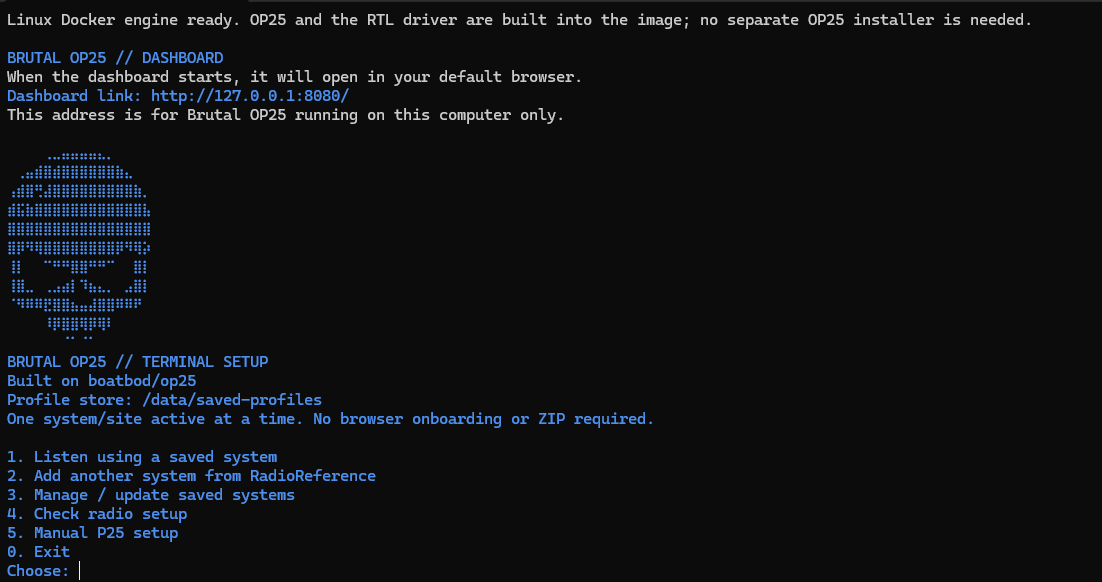
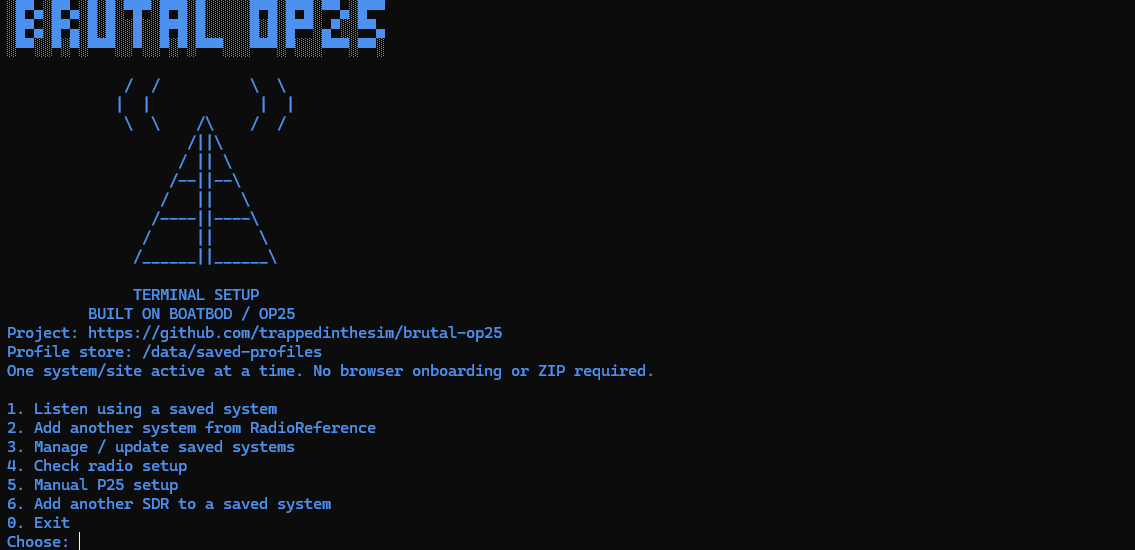
Show updated terminal launcher screenshot

Changed region(s): [[0.0, 0.0, 1.0, 1.0]]

diff --git a/README.md b/README.md
@@ -17,28 +17,11 @@ Live dashboard showing the receiver, call history, and signal plots:
 
 ![Brutal OP25 live dashboard with receiver telemetry, call history, and signal plots](docs/screenshots/dashboard-live.png)
 
-The terminal banner combines the block-letter name with the radio tower (shown in
-the dashboard's blue on a color terminal). Narrow or non-UTF-8 terminals use the compact name:
+Terminal launcher and onboarding:
 
-```text
-░█▀▄░█▀▄░█░█░▀█▀░█▀█░█░░░░░█▀█░█▀█░▀▀▄░█▀▀
-░█▀▄░█▀▄░█░█░░█░░█▀█░█░░░░░█░█░█▀▀░▄▀░░▀▀▄
-░▀▀░░▀░▀░▀▀▀░░▀░░▀░▀░▀▀▀░░░▀▀▀░▀░░░▀▀▀░▀▀░
+![Brutal OP25 terminal launcher with block-letter title, radio tower, project link, and setup menu](docs/screenshots/terminal-setup.png)
 
-             /  /          \  \
-            |  |            |  |
-             \  \    /\    /  /
-                    /||\
-                   / || \
-                  /--||--\
-                 /   ||   \
-                /----||----\
-               /     ||     \
-              /______||______\
-
-              TERMINAL SETUP
-         BUILT ON BOATBOD / OP25
-```
+Narrow or non-UTF-8 terminals use a compact text banner.
 
 ## What it adds on top of OP25
 - **Guided launch** (Windows and Linux/WSL): picks your radio, forwards USB into a locked-down container, and opens the dashboard.
